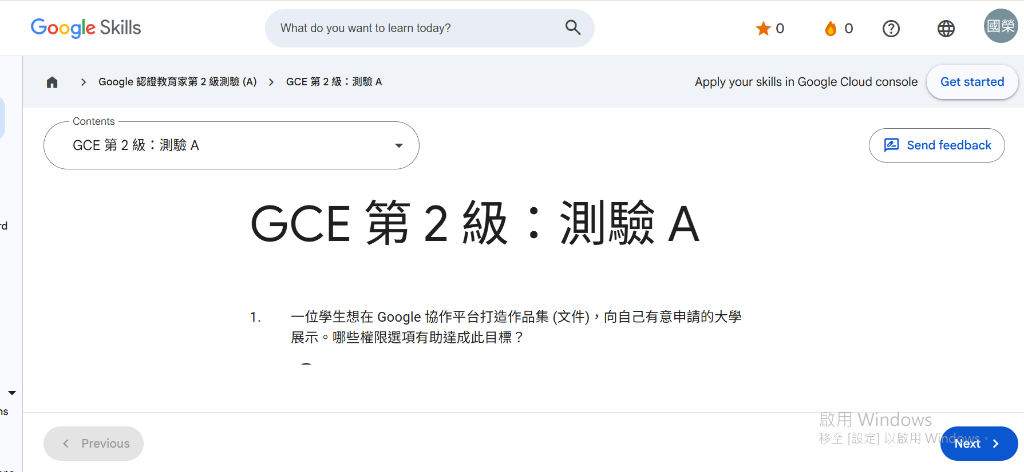
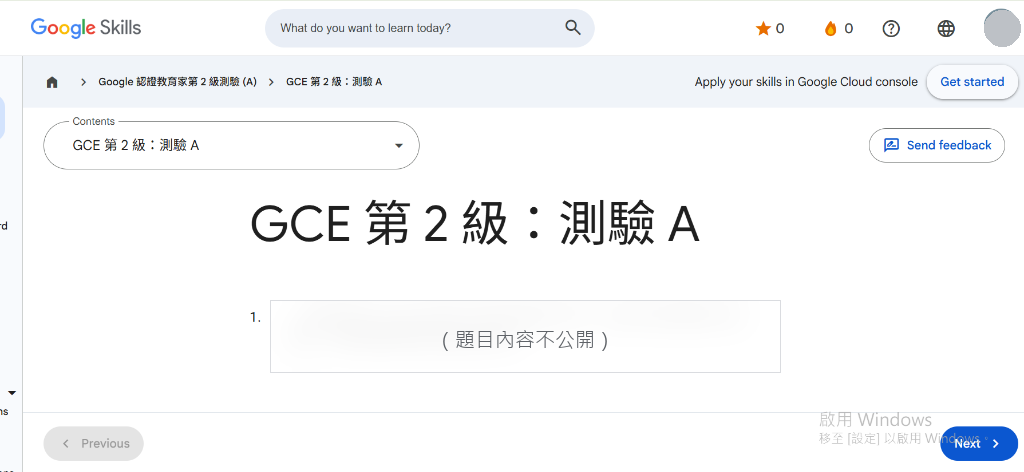
fix: 考場截圖改用去識別版，移除題幹與帳號頭像
- actual_exam_screen.png：模糊第 1 題題幹、遮蔽右上帳號頭像
- switch_language_menu.png：遮蔽右上帳號頭像
- calendar 演練四新增 +Email 指派 vs @智慧晶片 對照表

Changed region(s): [[0.2812, 0.6525, 0.7188, 0.7415], [0.9375, 0.0, 1.0, 0.1186]]

diff --git a/calendar_workshop_app.html b/calendar_workshop_app.html
@@ -473,7 +473,7 @@
             <a href="https://calendar.google.com/calendar/render?action=TEMPLATE&text=%E5%AD%B8%E6%9C%9F%E6%95%99%E7%A0%94%E6%9C%83%EF%BC%88%E6%9C%83%E8%AD%B0%E8%A8%98%E9%8C%84%E9%80%A3%E5%8B%95%E6%BC%94%E7%B7%B4%EF%BC%89&dates=20260822T053000Z%2F20260822T070000Z&details=%E3%80%90%E7%A0%94%E7%BF%92%E6%BC%94%E7%B7%B4%E5%9B%9B%E3%80%91%E8%AB%8B%E5%9C%A8%E6%9C%AC%E6%B4%BB%E5%8B%95%E4%B8%8A%E5%AE%8C%E6%88%90%EF%BC%9A%0A1.%20%E5%9C%A8%E5%8F%B3%E5%81%B4%E3%80%8C%E9%82%80%E8%AB%8B%E5%B0%8D%E8%B1%A1%E3%80%8D%E5%8A%A0%E5%85%A5%E6%97%81%E9%82%8A%E5%A4%A5%E4%BC%B4%E7%9A%84%20Email%0A2.%20%E9%BB%9E%E9%81%B8%E6%9C%AC%E8%AA%AA%E6%98%8E%E6%AC%84%E5%B7%A5%E5%85%B7%E5%88%97%E6%9C%80%E5%B7%A6%E9%82%8A%E7%9A%84%20Google%20%E6%96%87%E4%BB%B6%E5%9C%96%E7%A4%BA%EF%BC%88%E5%BB%BA%E7%AB%8B%E6%9C%83%E8%AD%B0%E8%A8%98%E9%8C%84%20%2F%20Create%20meeting%20notes%EF%BC%89%0A%20%20%20%E2%80%BB%20%E5%AE%83%E6%98%AF%E5%9C%96%E7%A4%BA%E4%B8%8D%E6%98%AF%E6%96%87%E5%AD%97%E9%80%A3%E7%B5%90%EF%BC%8C%E4%BD%8D%E7%BD%AE%E5%9C%A8%20B%20I%20U%20%E7%9A%84%E5%B7%A6%E9%82%8A%0A3.%20%E6%8C%89%E3%80%8C%E5%84%B2%E5%AD%98%E3%80%8D%EF%BC%8C%E5%86%8D%E9%96%8B%E5%95%9F%E8%87%AA%E5%8B%95%E9%99%84%E5%8A%A0%E7%9A%84%20Docs%EF%BC%8C%E7%A2%BA%E8%AA%8D%E5%A4%A5%E4%BC%B4%E4%B8%8D%E5%BF%85%E5%8F%A6%E5%A4%96%E5%88%86%E4%BA%AB%E5%B0%B1%E6%9C%89%E7%B7%A8%E8%BC%AF%E6%AC%8A%0A4.%20%E5%9C%A8%E6%96%87%E4%BB%B6%E4%B8%AD%E9%81%B8%E5%8F%96%E6%AE%B5%E8%90%BD%E6%96%B0%E5%A2%9E%E8%A8%BB%E8%A7%A3%EF%BC%8C%E8%BC%B8%E5%85%A5%20%2B%E5%A4%A5%E4%BC%B4Email%20%E4%B8%A6%E5%8B%BE%E9%81%B8%E3%80%8C%E6%8C%87%E6%B4%BE%E7%B5%A6%E2%80%A6%E3%80%8D&location=%E6%95%99%E5%B8%AB%E7%A0%94%E7%A9%B6%E5%AE%A4" target="_blank" rel="noopener" style="text-decoration:none; background:#1557b0; color:white; padding:10px 22px; border-radius:20px; font-weight:700; font-size:0.92rem; box-shadow:0 3px 8px rgba(0,0,0,0.15); white-space:nowrap;">⚡ 開啟我的練習活動</a>
           </div>
           <div style="background:white; border:1px solid #aecbfa; border-radius:8px; padding:12px 16px; margin-top:8px;">
-            <div style="font-size:0.88rem; color:#5f6368; margin-bottom:6px;">活動：<strong>學期教研會（會議記錄連動演練）</strong></div><div style="font-size:0.86rem; color:#5f6368; margin-bottom:8px;">點按鈕會在<strong>你自己的 Google 日曆</strong>開啟一個已填好標題與說明的新活動草稿（尚未儲存，可自行調整時間）。</div><div style="font-size:0.95rem; color:#1557b0; font-weight:700; line-height:1.6;">🎯 你要做的事：<span style="color:#202124; font-weight:500;">請在這個活動草稿上：① 邀請夥伴當邀請對象 ② 點說明欄工具列最左邊的 <strong>Google 文件圖示（建立會議記錄）</strong> ③ 儲存後開啟產生的 Docs，用 +Email 指派一項待辦。</span></div><div style="font-size:0.88rem; color:#5f6368; margin-top:10px; line-height:1.6; border-top:1px dashed #aecbfa; padding-top:10px;">💬 ⚠ <strong>找不到按鈕的話看這裡</strong>：它<strong>不是</strong>說明欄上方的文字連結，而是說明欄工具列<strong>最左邊那個 Google 文件三角形圖示</strong>（在 <code>B</code> <code>I</code> <code>U</code> 的左側），滑鼠移上去會顯示「建立會議記錄」。另外三個前提：① 只有<strong>電腦版網頁</strong>有這個功能 ② 你必須是活動建立者或有編輯權 ③ 若已有人附加過會議記錄就不能再新增。</div>
+            <div style="font-size:0.88rem; color:#5f6368; margin-bottom:6px;">活動：<strong>學期教研會（會議記錄連動演練）</strong></div><div style="font-size:0.86rem; color:#5f6368; margin-bottom:8px;">點按鈕會在<strong>你自己的 Google 日曆</strong>開啟一個已填好標題與說明的新活動草稿（尚未儲存，可自行調整時間）。</div><div style="font-size:0.95rem; color:#1557b0; font-weight:700; line-height:1.6;">🎯 你要做的事：<span style="color:#202124; font-weight:500;">請在這個活動草稿上：① 邀請夥伴當邀請對象 ② 點說明欄工具列最左邊的 <strong>Google 文件圖示（建立會議記錄）</strong> ③ 儲存後開啟產生的 Docs，用 +Email 指派一項待辦。</span></div><div style="font-size:0.88rem; color:#5f6368; margin-top:10px; line-height:1.6; border-top:1px dashed #aecbfa; padding-top:10px;">💬 ⚠ <strong>找不到按鈕的話看這裡</strong>：它<strong>不是</strong>說明欄上方的文字連結，而是說明欄工具列<strong>最左邊那個 Google 文件三角形圖示</strong>（在 <code>B</code> <code>I</code> <code>U</code> 的左側），滑鼠移上去會顯示「建立會議記錄」。另外三個前提：① 只有<strong>電腦版網頁</strong>有這個功能 ② 你必須是活動建立者或有編輯權 ③ 若已有人附加過會議記錄就不能再新增。</div><div style="margin-top:12px; border-top:1px dashed #aecbfa; padding-top:12px;"><div style="font-size:0.9rem; color:#1557b0; font-weight:700; margin-bottom:8px;">🔍 第 ③ 步的 <code>+</code> 與智慧晶片的 <code>@</code>，是兩件不同的事</div><div style="overflow-x:auto;"><table style="width:100%; border-collapse:collapse; min-width:420px;"><thead><tr><th style="padding:8px 10px; text-align:left; border-bottom:2px solid #1a73e8; color:#1557b0; font-size:.86rem; white-space:nowrap;">做法</th><th style="padding:8px 10px; text-align:left; border-bottom:2px solid #1a73e8; color:#1557b0; font-size:.86rem; white-space:nowrap;">打什麼</th><th style="padding:8px 10px; text-align:left; border-bottom:2px solid #1a73e8; color:#1557b0; font-size:.86rem; white-space:nowrap;">效果</th></tr></thead><tbody><tr><td style="padding:8px 10px; border-top:1px solid #e8eaed; color:#3c4043; font-size:.86rem; line-height:1.6; vertical-align:top;"><strong>註解指派</strong><br>（本演練第 ③ 步）</td><td style="padding:8px 10px; border-top:1px solid #e8eaed; color:#3c4043; font-size:.86rem; line-height:1.6; vertical-align:top;">選取文字 → 新增註解（<code>Ctrl+Alt+M</code>）<br>→ 輸入 <code>+夥伴Email</code> → <strong>勾選「指派給…」</strong></td><td style="padding:8px 10px; border-top:1px solid #e8eaed; color:#3c4043; font-size:.86rem; line-height:1.6; vertical-align:top;">產生可打勾結案的<strong>任務</strong>，<br>對方會收到指派通知信</td></tr><tr><td style="padding:8px 10px; border-top:1px solid #e8eaed; color:#3c4043; font-size:.86rem; line-height:1.6; vertical-align:top;"><strong>智慧晶片 Smart chip</strong></td><td style="padding:8px 10px; border-top:1px solid #e8eaed; color:#3c4043; font-size:.86rem; line-height:1.6; vertical-align:top;">在<strong>內文</strong>直接輸入 <code>@姓名</code>、<code>@日期</code></td><td style="padding:8px 10px; border-top:1px solid #e8eaed; color:#3c4043; font-size:.86rem; line-height:1.6; vertical-align:top;">只是插入人員／日期標籤，<br><strong>不會指派、不寄信</strong></td></tr></tbody></table></div><div style="font-size:0.84rem; color:#5f6368; margin-top:8px; line-height:1.6;">⚠ <strong>只打 <code>+Email</code> 而沒勾「指派給…」不算指派</strong>，系統只當成提及某人——這是實務上最容易漏掉的一步。勾選後該行左側會出現對方頭像與打勾圈圈。另外，<strong>「註解」就是「批註」（Comment）</strong>，和 Slides 的「演講者備註」是完全不同的東西，只有註解能指派工作。</div></div>
           </div>
           <div style="margin-top:10px; font-size:0.82rem; color:#5f6368;">📎 <a href="https://docs.google.com/document/d/14xJjbd7YdMKoPKf8hzVKJyHEfoscKQcPuacDvDW3OY0/preview" target="_blank" rel="noopener" style="color:#5f6368;">情境補充說明文件（唯讀，Task 09）</a></div>
         </div>

diff --git a/scripts/build_workshop_apps.py b/scripts/build_workshop_apps.py
@@ -152,6 +152,26 @@ def build_practice_box(pr):
         note = (f'<div style="font-size:0.88rem; color:#5f6368; margin-top:10px; line-height:1.6; '
                 f'border-top:1px dashed {st["inner"]}; padding-top:10px;">💬 {pr["note"]}</div>')
 
+    # 易混淆對照表（可選）
+    table = ''
+    if pr.get('table'):
+        t = pr['table']
+        head = ''.join(f'<th style="padding:8px 10px; text-align:left; border-bottom:2px solid {st["bd"]}; '
+                       f'color:{st["fg"]}; font-size:.86rem; white-space:nowrap;">{h}</th>' for h in t['head'])
+        rows = ''
+        for r in t['rows']:
+            cells = ''.join(f'<td style="padding:8px 10px; border-top:1px solid #e8eaed; color:#3c4043; '
+                            f'font-size:.86rem; line-height:1.6; vertical-align:top;">{c}</td>' for c in r)
+            rows += f'<tr>{cells}</tr>'
+        cap = (f'<div style="font-size:0.9rem; color:{st["fg"]}; font-weight:700; margin-bottom:8px;">'
+               f'🔍 {t["caption"]}</div>') if t.get('caption') else ''
+        foot = (f'<div style="font-size:0.84rem; color:#5f6368; margin-top:8px; line-height:1.6;">'
+                f'{t["foot"]}</div>') if t.get('foot') else ''
+        table = (f'<div style="margin-top:12px; border-top:1px dashed {st["inner"]}; padding-top:12px;">{cap}'
+                 f'<div style="overflow-x:auto;">'
+                 f'<table style="width:100%; border-collapse:collapse; min-width:420px;">'
+                 f'<thead><tr>{head}</tr></thead><tbody>{rows}</tbody></table></div>{foot}</div>')
+
     # 次要參考文件（非 copy 型態時，原本那份說明文件仍保留為選讀；一律唯讀 /preview）
     if pr['type'] not in ('copy',) and raw_url:
         ref = (f'<div style="margin-top:10px; font-size:0.82rem; color:#5f6368;">'
@@ -165,7 +185,7 @@ def build_practice_box(pr):
             {action}
           </div>
           <div style="background:white; border:1px solid {st["inner"]}; border-radius:8px; padding:12px 16px; margin-top:8px;">
-            {body}{todo}{alt}{note}
+            {body}{todo}{alt}{note}{table}
           </div>
           {ref}
         </div>

diff --git a/scripts/workshop_content.py b/scripts/workshop_content.py
@@ -621,6 +621,23 @@ APPS = [
                             '滑鼠移上去會顯示「建立會議記錄」。另外三個前提：'
                             '① 只有<strong>電腦版網頁</strong>有這個功能 ② 你必須是活動建立者或有編輯權 '
                             '③ 若已有人附加過會議記錄就不能再新增。',
+                    'table': {
+                        'caption': '第 ③ 步的 <code>+</code> 與智慧晶片的 <code>@</code>，是兩件不同的事',
+                        'head': ['做法', '打什麼', '效果'],
+                        'rows': [
+                            ['<strong>註解指派</strong><br>（本演練第 ③ 步）',
+                             '選取文字 → 新增註解（<code>Ctrl+Alt+M</code>）<br>→ 輸入 <code>+夥伴Email</code> → '
+                             '<strong>勾選「指派給…」</strong>',
+                             '產生可打勾結案的<strong>任務</strong>，<br>對方會收到指派通知信'],
+                            ['<strong>智慧晶片 Smart chip</strong>',
+                             '在<strong>內文</strong>直接輸入 <code>@姓名</code>、<code>@日期</code>',
+                             '只是插入人員／日期標籤，<br><strong>不會指派、不寄信</strong>'],
+                        ],
+                        'foot': '⚠ <strong>只打 <code>+Email</code> 而沒勾「指派給…」不算指派</strong>，系統只當成提及某人——'
+                                '這是實務上最容易漏掉的一步。勾選後該行左側會出現對方頭像與打勾圈圈。'
+                                '另外，<strong>「註解」就是「批註」（Comment）</strong>，'
+                                '和 Slides 的「演講者備註」是完全不同的東西，只有註解能指派工作。',
+                    },
                     'cal': {
                         'text': '學期教研會（會議記錄連動演練）',
                         'dates': '20260822T053000Z/20260822T070000Z',

diff --git a/scripts/build_public_index.py b/scripts/build_public_index.py
@@ -171,9 +171,19 @@ copy_page('exam_registration.html'); copied += 1
 for img in ['docs_insert_toc_menu.png',
             # 認證報名頁使用（報名流程與控制台導覽）
             'gce_launchpad.png', 'confirm_eligibility.png', 'registration_complete.png',
-            'continue_exams_card.png', 'switch_language_menu.png',
-            'exam_structure_dropdown.png', 'actual_exam_screen.png']:
+            'continue_exams_card.png',
+            'exam_structure_dropdown.png']:
     shutil.copy2(os.path.join(ROOT, 'images', img), os.path.join(OUT, 'images', img)); copied += 1
+
+# 含個資或考題的截圖：公開版一律改用打碼版（原圖含真實題幹與帳號頭像，僅留在私人 repo）。
+# 輸出時沿用原檔名，exam_registration.html 不必改連結。
+# 打碼版由 scripts/mask_exam_screenshot.py 產生；缺檔即中止，絕不退回原圖。
+for img in ['actual_exam_screen.png', 'switch_language_menu.png']:
+    masked = os.path.join(ROOT, 'images', img.replace('.png', '_masked.png'))
+    if not os.path.exists(masked):
+        raise SystemExit('缺少 images/{}，請先執行 python scripts/mask_exam_screenshot.py'
+                         .format(os.path.basename(masked)))
+    shutil.copy2(masked, os.path.join(OUT, 'images', img)); copied += 1
 for f in ['workshop_content.py', 'workshop_glossary.py', 'build_workshop_apps.py',
           'build_course_structure_map.py', 'build_public_index.py']:
     shutil.copy2(os.path.join(ROOT, 'scripts', f), os.path.join(OUT, 'scripts', f)); copied += 1
